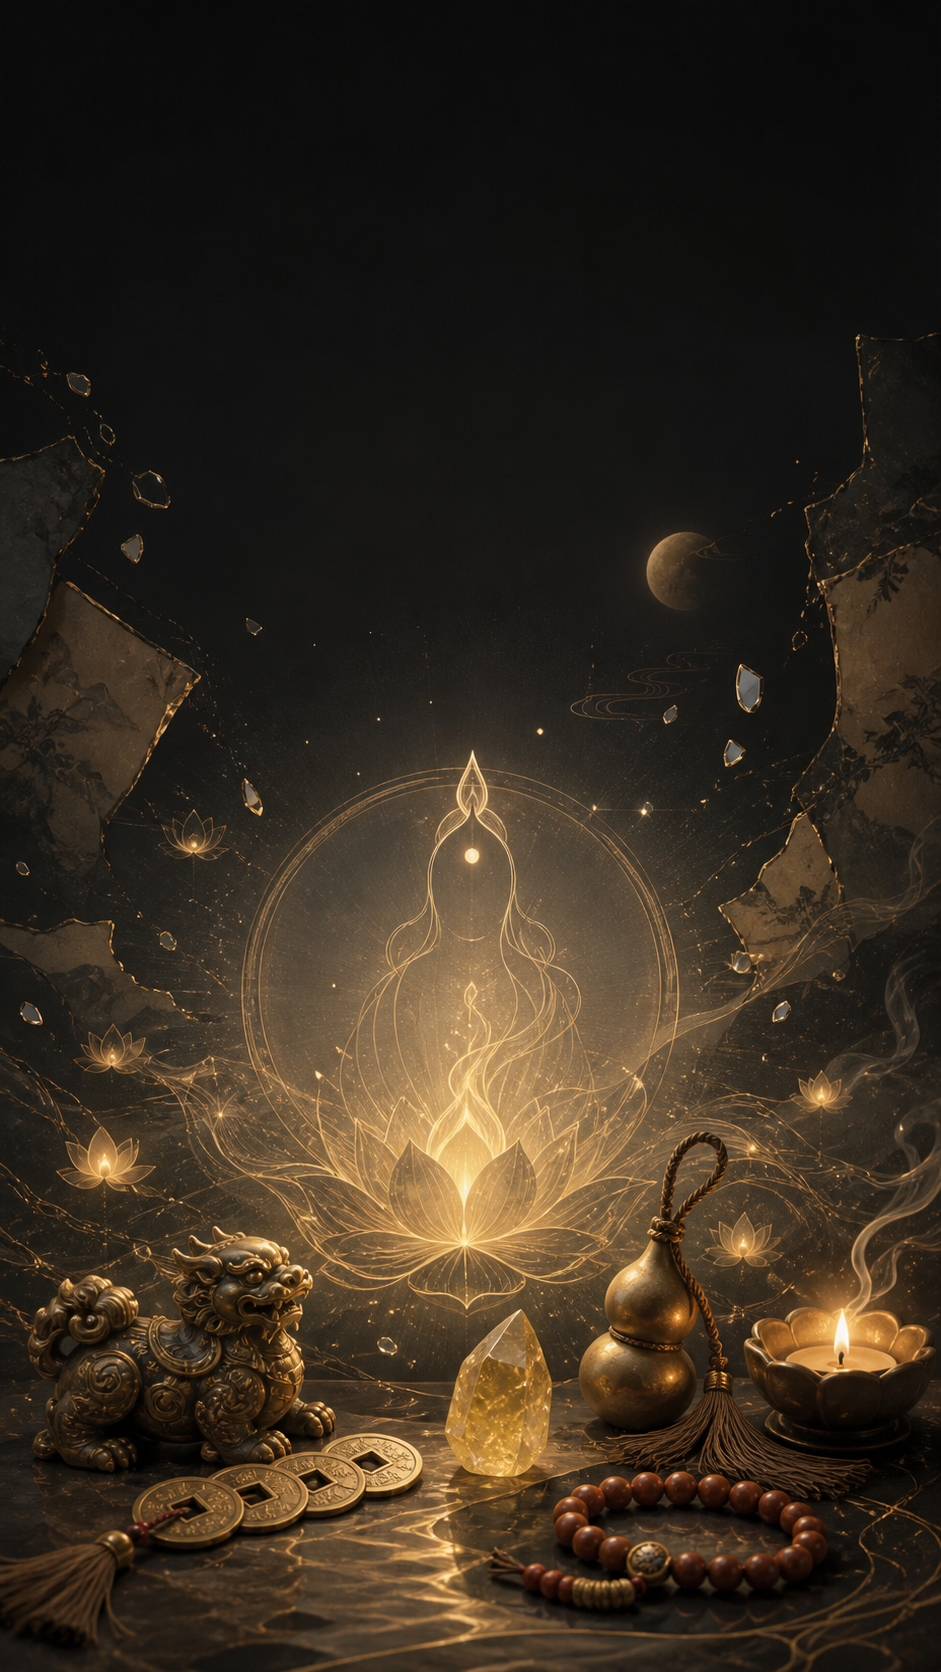
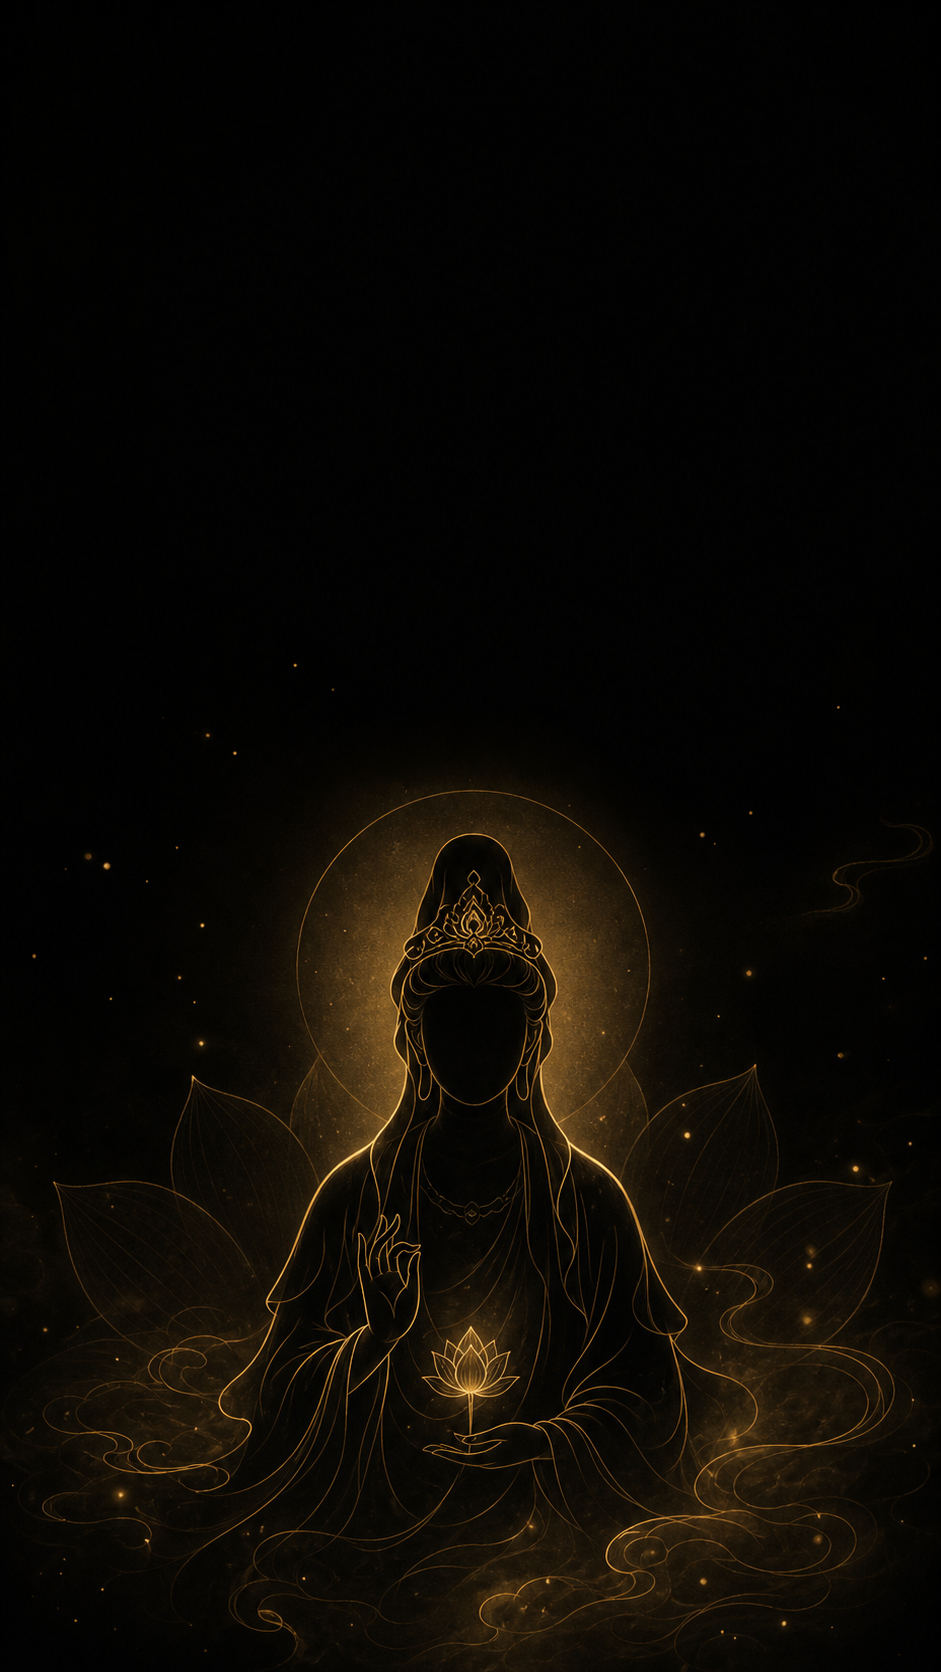
优化玄学种子图视觉和音色
改动点：

1. 替换玄学黑金禅意种子图为新版画像母版。

2. 玄学全局视觉提示词移除配件集合，避免每帧堆叠多个开运物件。

3. 玄学脚本图片提示按段控制，非产品段只保留画像氛围，产品段只展示单个匹配物件。

4. 玄学痛点转化默认改为低沉玄幻男声，场景种草改为柔和叙事女声。

5. 更新账号配置和玄学生成测试。

diff --git a/src/graphs/nodes/metaphysics_node.py b/src/graphs/nodes/metaphysics_node.py
@@ -162,28 +162,28 @@ def _build_segments(brief: Dict[str, Any]) -> List[Dict[str, Any]]:
             "scene": "痛点钩子",
             "caption": f"{brief['hook']}\n适合先收藏慢慢看",
             "tts": f"{brief['hook']}适合先收藏慢慢看。",
-            "image_prompt": _image_prompt(brief, "opening"),
+            "image_prompt": _image_prompt(brief, "opening", include_product=False),
             "duration": 3.2,
         },
         {
             "scene": "场景代入",
             "caption": brief["pain_point"],
             "tts": brief["pain_point"],
-            "image_prompt": _image_prompt(brief, "life scene"),
+            "image_prompt": _image_prompt(brief, "life scene", include_product=False),
             "duration": 4.0,
         },
         {
             "scene": "传统说法",
             "caption": brief["traditional_view"],
             "tts": brief["traditional_view"],
-            "image_prompt": _image_prompt(brief, "traditional view"),
+            "image_prompt": _image_prompt(brief, "traditional view", include_product=False),
             "duration": 4.2,
         },
         {
             "scene": "产品建议",
             "caption": f"{brief['product_angle']}\n{brief['product_reason']}",
             "tts": f"可以看看{brief['product_reason']}",
-            "image_prompt": _image_prompt(brief, "product close up"),
+            "image_prompt": _image_prompt(brief, "product close up", include_product=True),
             "keywords": [brief["product_angle"]],
             "duration": 4.8,
         },
@@ -191,24 +191,31 @@ def _build_segments(brief: Dict[str, Any]) -> List[Dict[str, Any]]:
             "scene": "摆放建议",
             "caption": brief["placement"],
             "tts": brief["placement"],
-            "image_prompt": _image_prompt(brief, "placement tips"),
+            "image_prompt": _image_prompt(brief, "placement tips", include_product=True),
             "duration": 4.2,
         },
         {
             "scene": "自然问句",
             "caption": brief["interaction"],
             "tts": brief["interaction"],
-            "image_prompt": _image_prompt(brief, "soft interaction"),
+            "image_prompt": _image_prompt(brief, "soft interaction", include_product=False),
             "duration": 3.2,
         },
     ]
 
 
-def _image_prompt(brief: Dict[str, Any], moment: str) -> str:
-    return (
-        f"{brief['topic']}, {brief['product_angle']}, metaphysics lifestyle short video, "
-        f"moment: {moment}, product-focused still life, no text, no speech bubbles"
+def _image_prompt(brief: Dict[str, Any], moment: str, include_product: bool = False) -> str:
+    base = (
+        f"{brief['topic']}, metaphysics lifestyle short video, moment: {moment}, "
+        "abstract black-gold guardian portrait, lotus halo, incense mist, quiet mystical atmosphere, "
+        "no text, no speech bubbles"
     )
+    if include_product:
+        return (
+            f"{base}, show only one matching product type: {brief['product_angle']}, "
+            "single product close-up in lower third, no other lucky objects"
+        )
+    return f"{base}, no product props, no lucky object pile"
 
 
 def _apply_visual_metadata(segment: Dict[str, Any], account_pack: Dict[str, Any]) -> Dict[str, Any]:

diff --git a/tests/test_account_pack.py b/tests/test_account_pack.py
@@ -31,9 +31,12 @@ def test_metaphysics_account_pack_loads_isolated_config():
     assert pack["modes"]["mode_aliases"]["场景式"] == "scene_product_seed"
     assert pack["prompts"]["system_role"] == "你是玄学生活方式短视频脚本策划。"
     assert pack["visual"]["style_name"] == "黑金禅意开运物语风"
-    assert "black-gold zen metaphysics storytelling style" in pack["visual"]["style_suffix"]
+    assert "black-gold zen metaphysics key visual style" in pack["visual"]["style_suffix"]
+    assert "pixiu" not in pack["visual"]["style_suffix"]
     assert pack["visual"]["local_reference_image"] == "assets/metaphysics/seed/black_gold_zen_seed.png"
+    assert pack["voices"]["speaker_map"]["mystic_male"] == "zh_male_ruyayichen_saturn_bigtts"
     assert pack["voices"]["speaker_map"]["gentle"] == "zh_female_santongyongns_saturn_bigtts"
+    assert pack["modes"]["voice_profiles"]["painpoint_conversion"]["voice"] == "mystic_male"
     assert pack["product_catalog"]["products"][0]["name"] == "小貔貅摆件"
     assert "保证发财" in pack["safety_rules"]["forbidden_claims"]
 

diff --git a/tests/test_topic_rescue.py b/tests/test_topic_rescue.py
@@ -352,6 +352,8 @@ def test_generate_plan_uses_metaphysics_account_contract(tmp_path, monkeypatch):
     assert result["content_meta"]["format"] == "metaphysics_product_seed"
     assert result["content_meta"]["content_mode"] == "painpoint_conversion"
     assert result["content_meta"]["scene"] == "wallet"
+    assert result["content_meta"]["voice_profile"]["voice"] == "mystic_male"
+    assert result["content_meta"]["voice_profile"]["speed"] == 0.94
     assert result["content_meta"]["product"]["name"] in ["五帝钱", "小貔貅摆件", "黄水晶小摆件"]
     assert result["publish_pack"]["title"].startswith("【最近总觉得钱留不住】")
     assert [segment["scene"] for segment in result["segments"][:3]] == [
@@ -362,6 +364,9 @@ def test_generate_plan_uses_metaphysics_account_contract(tmp_path, monkeypatch):
     captions = "\n".join(segment["caption"] for segment in result["segments"])
     assert "help me" not in captions
     assert "小丸子" not in captions
+    assert "no product props" in result["segments"][0]["image_prompt"]
+    assert "show only one matching product type" in result["segments"][3]["image_prompt"]
+    assert result["content_meta"]["product"]["name"] in result["segments"][3]["image_prompt"]
 
 
 def test_tts_resolves_voice_profile_speed():